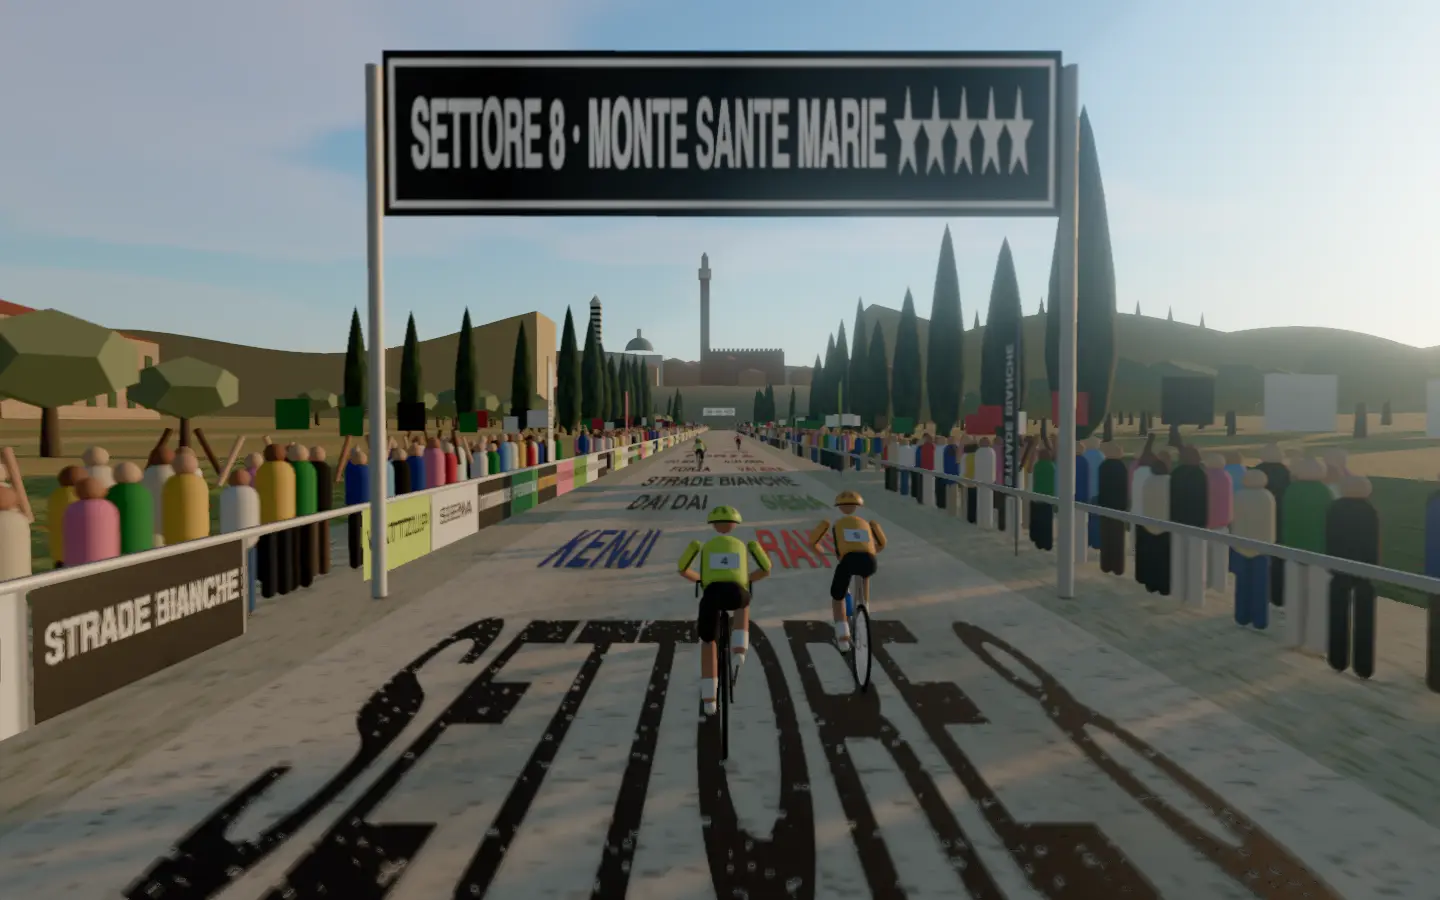
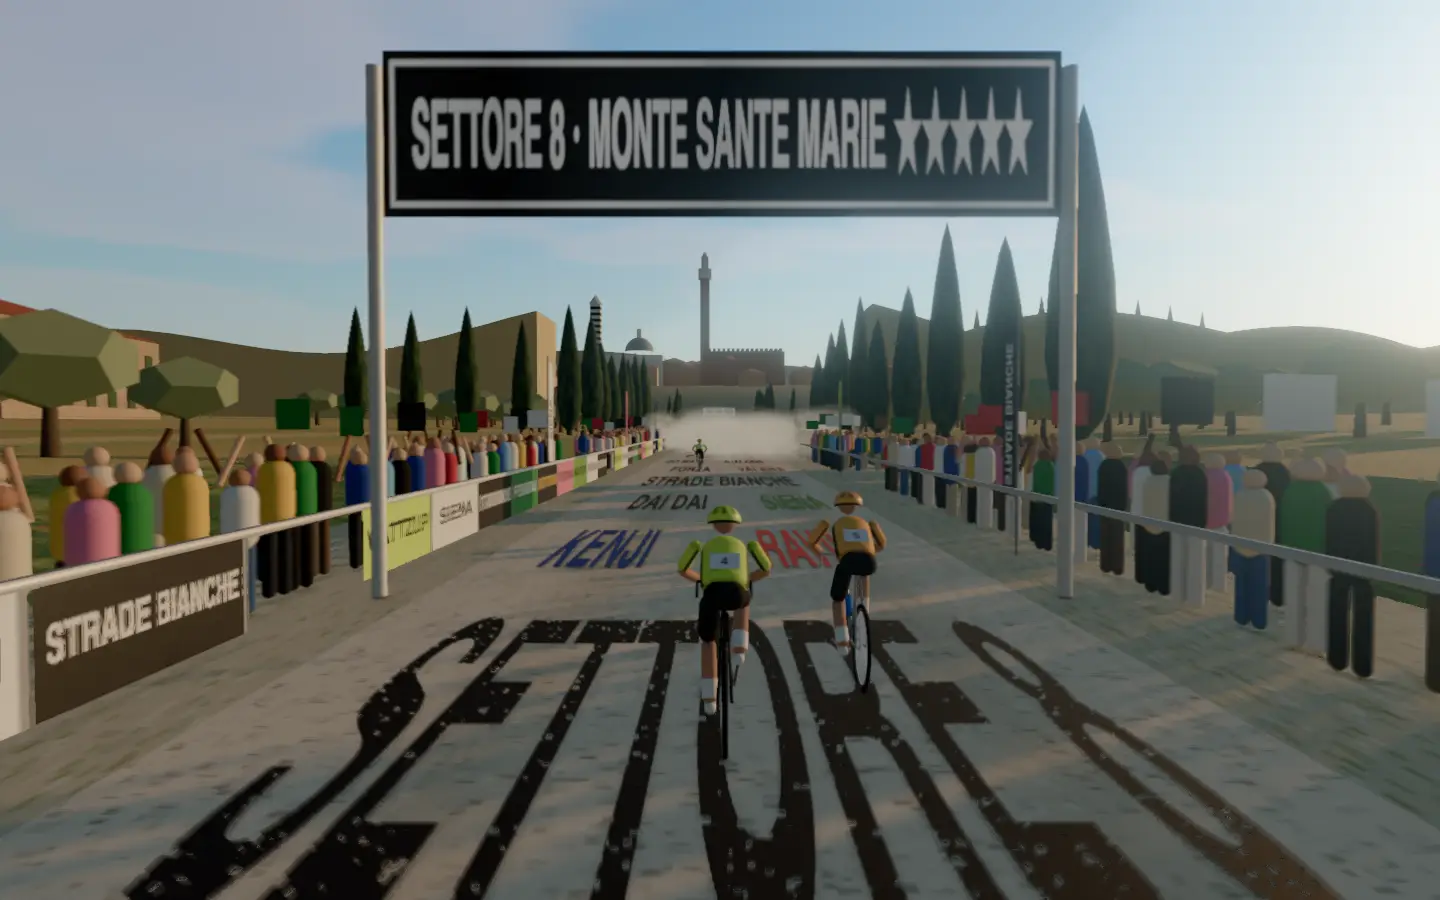
Raise dust over Strade Bianche's gravel where the riders ahead have passed

diff --git a/frontend/projects/wattzup/src/app/core/world-strade.ts b/frontend/projects/wattzup/src/app/core/world-strade.ts
@@ -20,6 +20,7 @@ import {
   Group,
   LatheGeometry,
   Mesh,
+  MeshBasicMaterial,
   MeshStandardMaterial,
   PlaneGeometry,
   RepeatWrapping,
@@ -156,6 +157,8 @@ export class StradeStreet implements SceneStreet {
   private readonly dust: Mist;
   private readonly props: Prop[] = [];
   private readonly horizon = new Group();
+  /** The dust clouds raised over the gravel up the road, each billowing on its own phase. */
+  private readonly puffs: { mesh: Mesh; size: number; phase: number }[] = [];
   private time = 0;
   private readonly flagMaterials = ['#1f8a3a', '#ffffff', '#d22630', '#111111'].map(
     (colour) => new MeshStandardMaterial({ color: colour, side: DoubleSide, roughness: 0.8 }),
@@ -201,6 +204,7 @@ export class StradeStreet implements SceneStreet {
     this.addStreetBanners(roadHalf);
     this.addFeatherFlags();
     this.addRoadPaint();
+    this.addDust();
     this.addHills();
     this.addSiena();
   }
@@ -208,6 +212,12 @@ export class StradeStreet implements SceneStreet {
   /** The street's clock, in seconds; held at 0 for reduced motion. */
   setTime(seconds: number): void {
     this.time = seconds;
+    // The dust billows and drifts a little downwind as it hangs.
+    for (const puff of this.puffs) {
+      const swell = 1 + Math.sin(seconds * 0.7 + puff.phase) * 0.12;
+      puff.mesh.scale.set(puff.size * swell, puff.size * 0.55 * swell, 1);
+      puff.mesh.position.x = puff.mesh.userData['x'] + Math.sin(seconds * 0.3 + puff.phase) * 0.6;
+    }
   }
 
   lay(points: readonly StreetPoint[], s: number): void {
@@ -493,6 +503,40 @@ export class StradeStreet implements SceneStreet {
       this.group.add(row.mesh);
       this.props.push(row);
     }
+  }
+
+  /**
+   * Clouds of pale dust over the gravel up the road, raised by the riders ahead: soft billows
+   * low over the white road and drifting onto the verges, hanging where a group has just passed.
+   */
+  private addDust(): void {
+    const material = new MeshBasicMaterial({
+      color: 0xf2e4c4,
+      map: this.track(dustTexture()),
+      transparent: true,
+      opacity: 0.8,
+      depthWrite: false,
+    });
+    const plane = new PlaneGeometry(1, 1);
+    plane.translate(0, 0.42, 0);
+    this.disposables.push(material, plane);
+    const random = seeded(5031);
+    for (const offset of [138, 156, 172, 205, 260, 320, 390, 450]) {
+      const cloud = new Group();
+      for (let k = 0; k < 7; k++) {
+        const puff = new Mesh(plane, material);
+        const size = 4 + random() * 6;
+        const x = (random() - 0.5) * 9;
+        puff.userData['x'] = x;
+        puff.position.set(x, 0, -random() * 14);
+        puff.renderOrder = 1;
+        cloud.add(puff);
+        this.puffs.push({ mesh: puff, size, phase: random() * 6.3 });
+      }
+      this.group.add(cloud);
+      this.props.push({ mesh: cloud, offset, x: 0 });
+    }
+    this.setTime(this.time);
   }
 
   /**
@@ -812,5 +856,24 @@ function stripeTexture(): CanvasTexture {
     g.fillRect(0, 0, 16, 64);
     g.fillStyle = '#22262a';
     g.fillRect(0, 32, 16, 32);
+  });
+}
+
+/** A billow of dust: a soft round cloud, densest low and fading at its rim, with lumps in it. */
+function dustTexture(): CanvasTexture {
+  return canvasTexture(128, 128, (g) => {
+    g.clearRect(0, 0, 128, 128);
+    const random = seeded(5033);
+    for (let i = 0; i < 26; i++) {
+      // Every billow stays inside the canvas, so no puff shows a straight edge.
+      const r = 12 + random() * 18;
+      const x = 64 + (random() - 0.5) * (124 - 2 * r);
+      const y = Math.min(124 - r, 54 + random() * 46);
+      const blob = g.createRadialGradient(x, y, 0, x, y, r);
+      blob.addColorStop(0, 'rgba(255,255,255,0.32)');
+      blob.addColorStop(1, 'rgba(255,255,255,0)');
+      g.fillStyle = blob;
+      g.fillRect(x - r, y - r, 2 * r, 2 * r);
+    }
   });
 }

diff --git a/docs/class-worlds.md b/docs/class-worlds.md
@@ -52,7 +52,7 @@ Every class in `frontend/public/classes.json`, with its World Ride scene. Render
 | 46 | Intervals to the Beat | Ibiza Sunset Strip | 80% | The sun sinks into the sea off Sant Antoni beside the island of Conillera, whitewashed beach clubs lining the strip with their neon names, palms and pergola terraces as a DJ sweeps light beams over the dancing crowd under festoon lights. The warm-up cruises the waterfront under the opening set, each effort from fifteen seconds to a minute and a quarter drops with the bass past the clubs and the DJ terrace, and the recoveries float easy along the promenade toward the sunset. |
 | 47 | 20 Minute Crit Sprints | Chicago Loop Crit | 76% | Downtown streets beneath the L tracks; sprint every corner of a city criterium. |
 | 48 | High Cadence Sprints | Victoria Harbour (concept) |  | Hong Kong's neon skyline and Star Ferries; spin fast along the harbourfront promenade. |
-| 49 | 20 Minutes to Work on Your Cadence | Strade Bianche | 77% | White gravel roads wind between lines of dark cypresses across the golden Crete Senesi toward Siena, the Torre del Mangia and the Duomo's striped campanile on the ridge ahead, as tifosi line the dusty banks under the sector banners and stone farmhouses watch from the olive groves. The minute's warm-up rolls out over the first white sector, the efforts from half a minute to a minute spin up the cadence on the gravel rises between the cypresses, and the easy minutes coast the dust down past the farmhouses toward the hill town. |
+| 49 | 20 Minutes to Work on Your Cadence | Strade Bianche | 78% | White gravel roads wind between lines of dark cypresses across the golden Crete Senesi toward Siena, the Torre del Mangia and the Duomo's striped campanile on the ridge ahead, as tifosi line the dusty banks under the sector banners and stone farmhouses watch from the olive groves. The minute's warm-up rolls out over the first white sector, the efforts from half a minute to a minute spin up the cadence on the gravel rises between the cypresses, and the easy minutes coast the dust down past the farmhouses toward the hill town. |
 | 50 | 30 Sec On, 2 Min Off | Havana Malecón | 75% | Waves crash over the seawall; classic cars and pastel façades between surges. |
 | 51 | Short 20 Minute Sprint Blitz | Holi in Jaipur (concept) |  | Colour-powder clouds in the Pink City's streets; sprint through every burst of festival colour. |
 | 52 | Sprint Into the Effort | Dubai Marina (concept) |  | Glass towers and yachts at dusk; sprint along the marina walk. |

diff --git a/docs/detailed-designs/world-ride/draw-class-scene/README.md b/docs/detailed-designs/world-ride/draw-class-scene/README.md
@@ -492,7 +492,7 @@ None.
   - the tifosi (the shared crowd) in club jerseys, Giro pink and summer shirts, in knots along the barriers with gaps so the banks show between them, some with the tricolore's colours and Siena's black and white on flags, some with their arms up;
   - either side the dusty verge out to 8 m, a grass bank with poppies rising to the Tuscan cypresses on its top 12.5 m off the crown every 9 m in avenues of 75 m with open stretches between where the hills show (tall dark spindles widest a third of the way up), and the golden and green fields beyond, rising gently to the hills;
   - olive groves in loose rows on the fields, and stone farmhouses (casali) of two floors under low terracotta roofs with green shutters and a square dovecote tower, a short avenue of cypresses up the track to each;
-  - late afternoon light: the sun low and golden ahead and right (12° up, 60° round), throwing the cypresses' and the riders' long shadows across the gravel, and dust from the race drifting low over the fields and hazing the distance (the kit's mist);
+  - late afternoon light: the sun low and golden ahead and right (12° up, 60° round), throwing the cypresses' and the riders' long shadows across the gravel, dust from the race drifting low over the fields and hazing the distance (the kit's mist), and clouds of pale dust hanging over the gravel up the road where the riders ahead have just passed, from 40 m on: soft billows of seven puffs each, a few metres high, that swell and drift a little on the street's clock (so they hold still for reduced motion);
   - ahead the Crete Senesi folding away in layers of rolling ridges 80 to 190 m high, golden and green near and paling to blue-grey far off, lines of cypresses along their crests, and Siena on its ridge at the end of the road: the brick town packed along the crest under terracotta roofs, the Palazzo Pubblico with its crenellations and the slender Torre del Mangia rising over it to its white stone crown, and the Duomo's dome beside its black-and-white striped campanile, all hazed by hand. Everything along the road is hidden past 280 m.
 
   `lay`, `place` and `setTime` recycle it along a 480 m loop.
